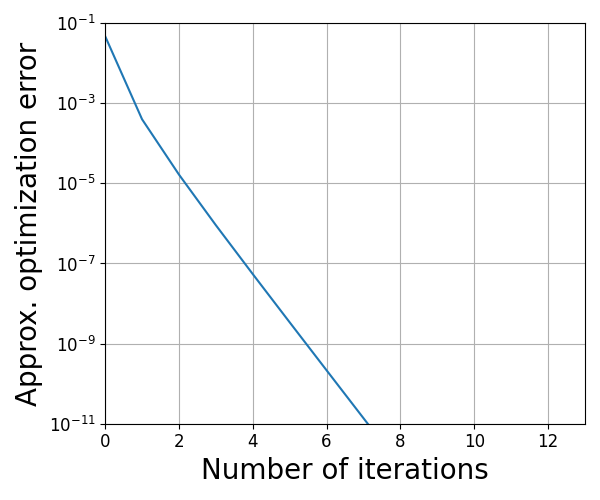
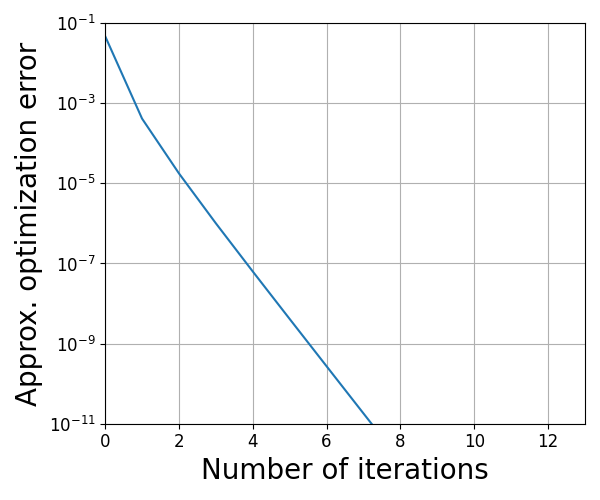
1. change best iterate to last. 2. use You2022 to approx opt

diff --git a/expr_QuantumAugustin.py b/expr_QuantumAugustin.py
@@ -19,40 +19,103 @@ def generate_psd(D):
     qobj_density_matrix = qutip.rand_dm(D)
     return qobj_density_matrix.full()
 
-def f(sigma, rhos, P, a): # fpetz
+def f(sigma, rhos, P, a, Diagonal=False): # fpetz
     ans = 0
-    sigma_power = linalg.fractional_matrix_power(sigma,1-a) # O(D^3) Precompute power of sigma
-    for i in range(len(P)):
-        ans += P[i] * np.log(np.tensordot(rhos[i].T,sigma_power))
+    if(Diagonal): # If all matrices are diagonal (classical case), we can compute faster
+        sigma_power = np.diag(sigma)**(1-a)
+        for i in range(len(P)):
+            ans += P[i] * np.log(np.dot(np.diag(rhos[i]),sigma_power))
+    else:  
+        sigma_power = linalg.fractional_matrix_power(sigma,1-a) # O(D^3) Precompute power of sigma
+        for i in range(len(P)):
+            ans += P[i] * np.log(np.tensordot(rhos[i].T,sigma_power))
     return ans / (a - 1)
 
-#def h(x, y, a):
-#    if x == y:
-#        return (1 - a) * x**(-a)
-#    return (x**(1 - a) - y**(1 - a)) / (x - y)
+def h(x, y, a):
+   if x == y:
+       return (1 - a) * x**(-a)
+   return (x**(1 - a) - y**(1 - a)) / (x - y)
 
-# def gradf(X, rhos, P, a): # In case you want to compute gradient of f
-#     D = X.shape[0]
-#     tmp = SimpleIteration(X, rhos, P, a)
-#     tmp = linalg.fractional_matrix_power(tmp, a)
-#     ans = np.zeros((D, D))
-#     eig_vals, eig_vecs = linalg.eigh(X)
+def gradf(X, rhos, P, a, Diagonal=False): # In case you want to compute gradient of f
+    D = X.shape[0]
+    if(Diagonal): # If all matrices are diagonal (classical case), we can compute faster
+        tmp = SimpleIteration(X, rhos, P, a, Diagonal)
+        tmp = np.diag(tmp)**a
+        ans = tmp * (np.diag(X)**(-a))
+        ans = -np.diag(ans)
+    else:
+        tmp = SimpleIteration(X, rhos, P, a)
+        tmp = linalg.fractional_matrix_power(tmp, a)
+        ans = np.zeros((D, D))
+        eig_vals, eig_vecs = linalg.eigh(X)
 
-#     for i in range(D):
-#         for k in range(D):
-#             ei, ek = eig_vals[i], eig_vals[k]
-#             ui, uk = np.reshape(eig_vecs[:, i], (D, 1)), np.reshape(eig_vecs[:, k], (D, 1))
-#             ui, uk = np.matrix(ui), np.matrix(uk)
-#             ans += (h(ei, ek, a) / (a - 1)) * ((ui @ ui.H) @ tmp @ (uk @ uk.H))
-#     return ans
+        for i in range(D):
+            for k in range(D):
+                ei, ek = eig_vals[i], eig_vals[k]
+                ui, uk = np.reshape(eig_vecs[:, i], (D, 1)), np.reshape(eig_vecs[:, k], (D, 1))
+                ui, uk = np.matrix(ui), np.matrix(uk)
+                ans += (h(ei, ek, a) / (a - 1)) * ((ui @ ((ui.H @ tmp) @ uk) @ uk.H))
+    return ans
+def Polyak(rhos,P,a, Diagonal=False):
+    delta_t, delta, gamma, beta, c = 2.5, 1e-11, 1.25, 0.75, 0.1
+    T = 30
+    D = rhos[0].shape[0]
+    sigma_t = np.identity(D) / D
+    min_f = float('inf')
+    if(Diagonal): # If all matrices are diagonal (classical case), we can compute faster
+        f_val = f(sigma_t,rhos,P,a,Diagonal)
+        for t in range(T):
+            
+            min_f = min(f_val,min_f)
+            ft_tilde = min_f - delta_t
+            grad =  gradf(sigma_t,rhos,P,a,Diagonal)
+            if(t%(T//10)==0):
+                print("polyak",f_val,np.diag(sigma_t))
+            grad_norm_square = np.tensordot(grad.T,grad)
+            eta_t = (f_val-ft_tilde)/(c*grad_norm_square)
+            sigma_t = np.diag(sigma_t)*np.exp(-eta_t*np.diag(grad))
+            sigma_t = np.diag(sigma_t)
+            sigma_t /= np.trace(sigma_t)
+            f_val = f(sigma_t,rhos,P,a,Diagonal=True)
+            if(f_val<=ft_tilde):
+                delta_t *= gamma
+            else:
+                delta_t = max(beta*delta_t,delta)
+    else:
+        f_val = f(sigma_t,rhos,P,a)
+        for t in range(T):
+            min_f = min(f_val,min_f)
+            ft_tilde = min_f - delta_t
+            grad = gradf(sigma_t,rhos,P,a)
+            grad_norm_square = np.tensordot(grad.T,grad)
+            eta_t = (f_val-min_f)/(c*grad_norm_square)
+            sigma_t = linalg.expm(linalg.logm(sigma_t)-eta_t*grad)
+            sigma_t /= np.trace(sigma_t)
+            f_val = f(sigma_t,rhos,P,a)
+            if(f_val<=ft_tilde):
+                delta_t *= gamma
+            else:
+                delta_t = max(beta*delta_t,delta)
+    return min_f
 
-def SimpleIteration(sigma, rhos, P, a):
+
+def SimpleIteration(sigma, rhos, P, a, Diagonal=False):
     D = sigma.shape[0]
-    ans = np.zeros((D, D))
-    sigma_power = linalg.fractional_matrix_power(sigma,1-a) # O(D^3) precompute sigma's power
-    for i in range(len(P)): # O(N)
-        ans = ans + P[i] * rhos[i] / np.tensordot(rhos[i].T,sigma_power) # O(D^2)
-    ans = linalg.fractional_matrix_power(ans, 1/a) #O(D^3)
+    if(Diagonal): # If all matrices are diagonal (classical case), we can compute faster
+        ans = np.zeros(D)
+        sigma_power=np.diag(sigma)**(1-a)
+        for i in range(len(P)):
+            ans += P[i] * np.diag(rhos[i])/np.dot(np.diag(rhos[i]),sigma_power)
+        ans = ans**(1/a)
+        ans = np.diag(ans)
+
+            
+    else:   
+        ans = np.zeros((D, D))
+        sigma_power = linalg.fractional_matrix_power(sigma,1-a) # O(D^3) precompute sigma's power
+        for i in range(len(P)): # O(N)
+            ans = ans + P[i] * rhos[i] / np.tensordot(rhos[i].T,sigma_power) # O(D^2)
+        ans = linalg.fractional_matrix_power(ans, 1/a) #O(D^3)
     return ans
 
 # Experiment parameters
@@ -88,12 +151,9 @@ for alpha in alphas:
         f_values.append(f_val)
         print(alpha,f_val)
 
-    min_f_val = min(f_values)
+    last_f_val = f_values[-1] # Last iterate is guaranteed to converge.
     for i in range(len(f_values)):
-        f_values[i] -= min_f_val
-    # f_values = f_values[:T//10]
-    # norm_logs = norm_logs[:T//10]
-    # iterations = iterations[:T//10]
+        f_values[i] = abs(f_values[i]-last_f_val) # Calculate the distance instead.
 
     # Plotting the results with log-scale y-axis
     plt.figure(figsize=(6, 5))
@@ -134,19 +194,19 @@ D=3
 # An instance that cause our proposed algorithm to fail when alpha < 0.5
 global_rhos = [
     [
-        [0.9,0,0],
-        [0,0.09,0],
-        [0,0,0.01]
+        [0.6,0,0],
+        [0,0.36,0],
+        [0,0,0.04]
     ],
     [
-        [0.009,0,0],
-        [0,0.99,0],
-        [0,0,0.001]
+        [0.21,0,0],
+        [0,0.7,0],
+        [0,0,0.09]
     ],
     [
-        [0.0001,0,0],
-        [0,0.0009,0],
-        [0,0,0.999]
+        [0.04,0,0],
+        [0,0.16,0],
+        [0,0,0.8]
     ]
 
 ]
@@ -157,31 +217,34 @@ for i in range(N):
     global_rhos[i]/=np.trace(global_rhos[i])
 
 alphas = [0.2,0.4]
-P = np.array([0.33,0.33,0.33])
+P = np.array([1/3,1/3,1/3])
 # Loop over different values of alpha
 for alpha in alphas:
     rhos = []
     for i in range(N): # Total O(N * D^3) time for initialization
-        rhos.append(linalg.fractional_matrix_power(global_rhos[i],alpha)) # Taking matrix power of supported states beforehand
+        rhos.append(np.diag(np.diag(global_rhos[i])**alpha)) # Taking matrix power of supported states beforehand
     
     sigma = np.identity(D) / D
     # Arrays to store iteration results
     iterations = [0]
-    f_values = [f(sigma / np.trace(sigma), rhos, P, alpha)]
+    f_values = [f(sigma, rhos, P, alpha)]
 
     # Perform the iterative process
     T = 30
     for i in range(T):
-        sigma = SimpleIteration(sigma, rhos, P, alpha)
-        sigma/=np.trace(sigma)
+        sigma = SimpleIteration(sigma, rhos, P, alpha,Diagonal=True)
         iterations.append(i+1)
-        f_val = f(sigma / np.trace(sigma), rhos, P, alpha)
+        f_val = f(sigma, rhos, P, alpha,Diagonal=True)
         f_values.append(f_val)
-        print(alpha,f_val)
+        print(alpha,f_val,np.diag(sigma))
 
-    min_f_val = min(f_values)
+    #min_f_val = min(f_values)
+    min_f_val = Polyak(rhos, P, alpha,Diagonal=True) # Use mirror descent with Polyak stepsize to compute
+                                       # minimum value instead. As our algorithm is not 
+                                       # proved to converge for alpha < 0.5
+    print("Minimum computed by Polyak",min_f_val)
     for i in range(len(f_values)):
-        f_values[i] -= min_f_val
+        f_values[i] = abs(f_values[i]-min_f_val) # Compute the distance instead.
     # f_values = f_values[:T//10]
     # norm_logs = norm_logs[:T//10]
     # iterations = iterations[:T//10]

diff --git a/README.md b/README.md
@@ -6,8 +6,10 @@ $ python expr_QuantumAugustin.py
 ```
 ## Challenging Instance
 input alphabet : {1,2,3}\
-classical-quantum channel outputs : $$\rho_B^1=\mathrm{Diag}\left(\left(0.9,0.09,0.01\right)\right),\rho_B^2=\mathrm{Diag}\left(\left(0.009,0.99,0.001\right)\right),\rho_B^3=\mathrm{Diag}\left(\left(0.0001,0.0009,0.999\right)\right)$$\
+classical-quantum channel outputs : $$\rho_B^1=\mathrm{Diag}\left(\left(0.6,0.36,0.04\right)\right),\rho_B^2=\mathrm{Diag}\left(\left(0.21,0.7,0.09\right)\right),\rho_B^3=\mathrm{Diag}\left(\left(0.04,0.16,0.8\right)\right)$$\
 probability distribution : $$P_X(1)=P_X(2)=P_X(3)=\frac{1}{3}$$
 ## References
 We use the QuTip package.\
 J.R. Johansson, P.D. Nation and F. Nori, QuTiP: An open-source Python framework for the dynamics of open quantum systems, *Comp. Phys. Comm.*, 2012 ([link](https://doi.org/10.1016/j.cpc.2012.02.021))
+We approximate optimal point for $$\alpha<0.5$$ by entropic mirror descent with Polyak step size
+J.K. You, H.C. Cheng, and Y.H. Li. Minimizing quantum Rényi divergences via mirror descent with Polyak step size. In IEEE Int. Symp. Information Theory, pages 252–257, 2022. 
